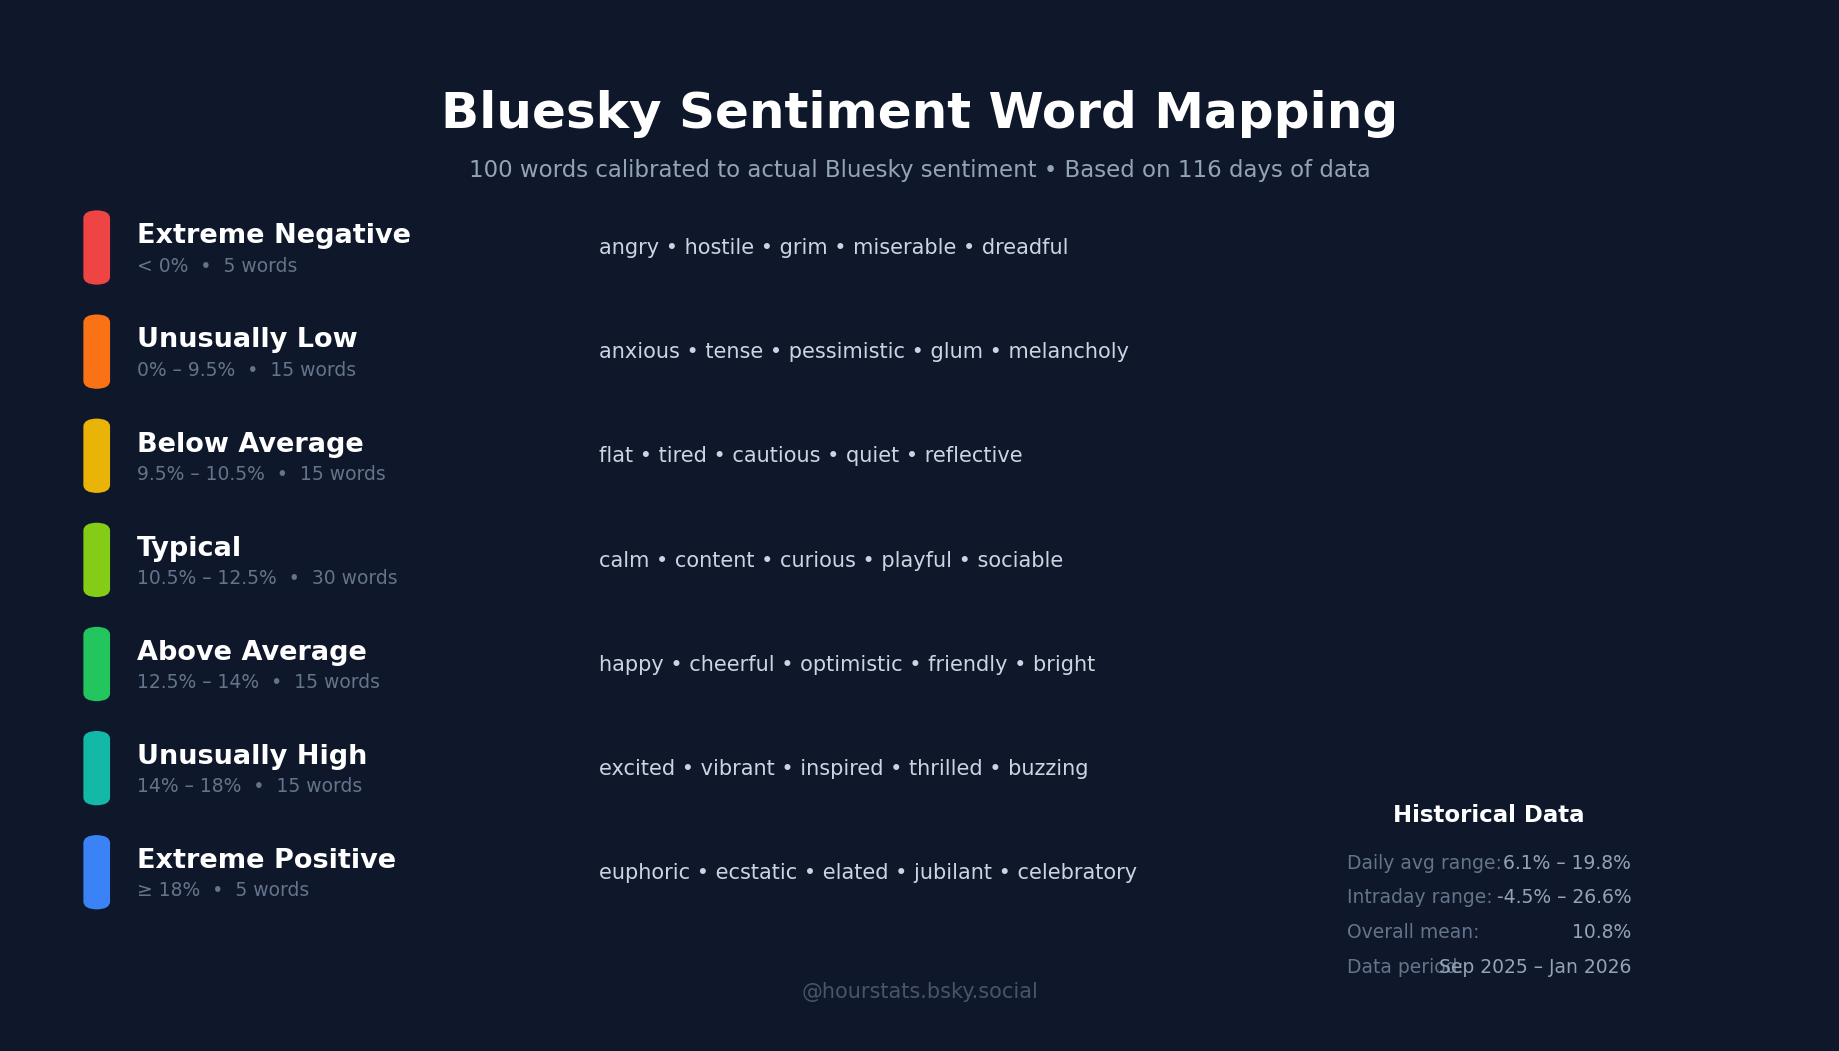
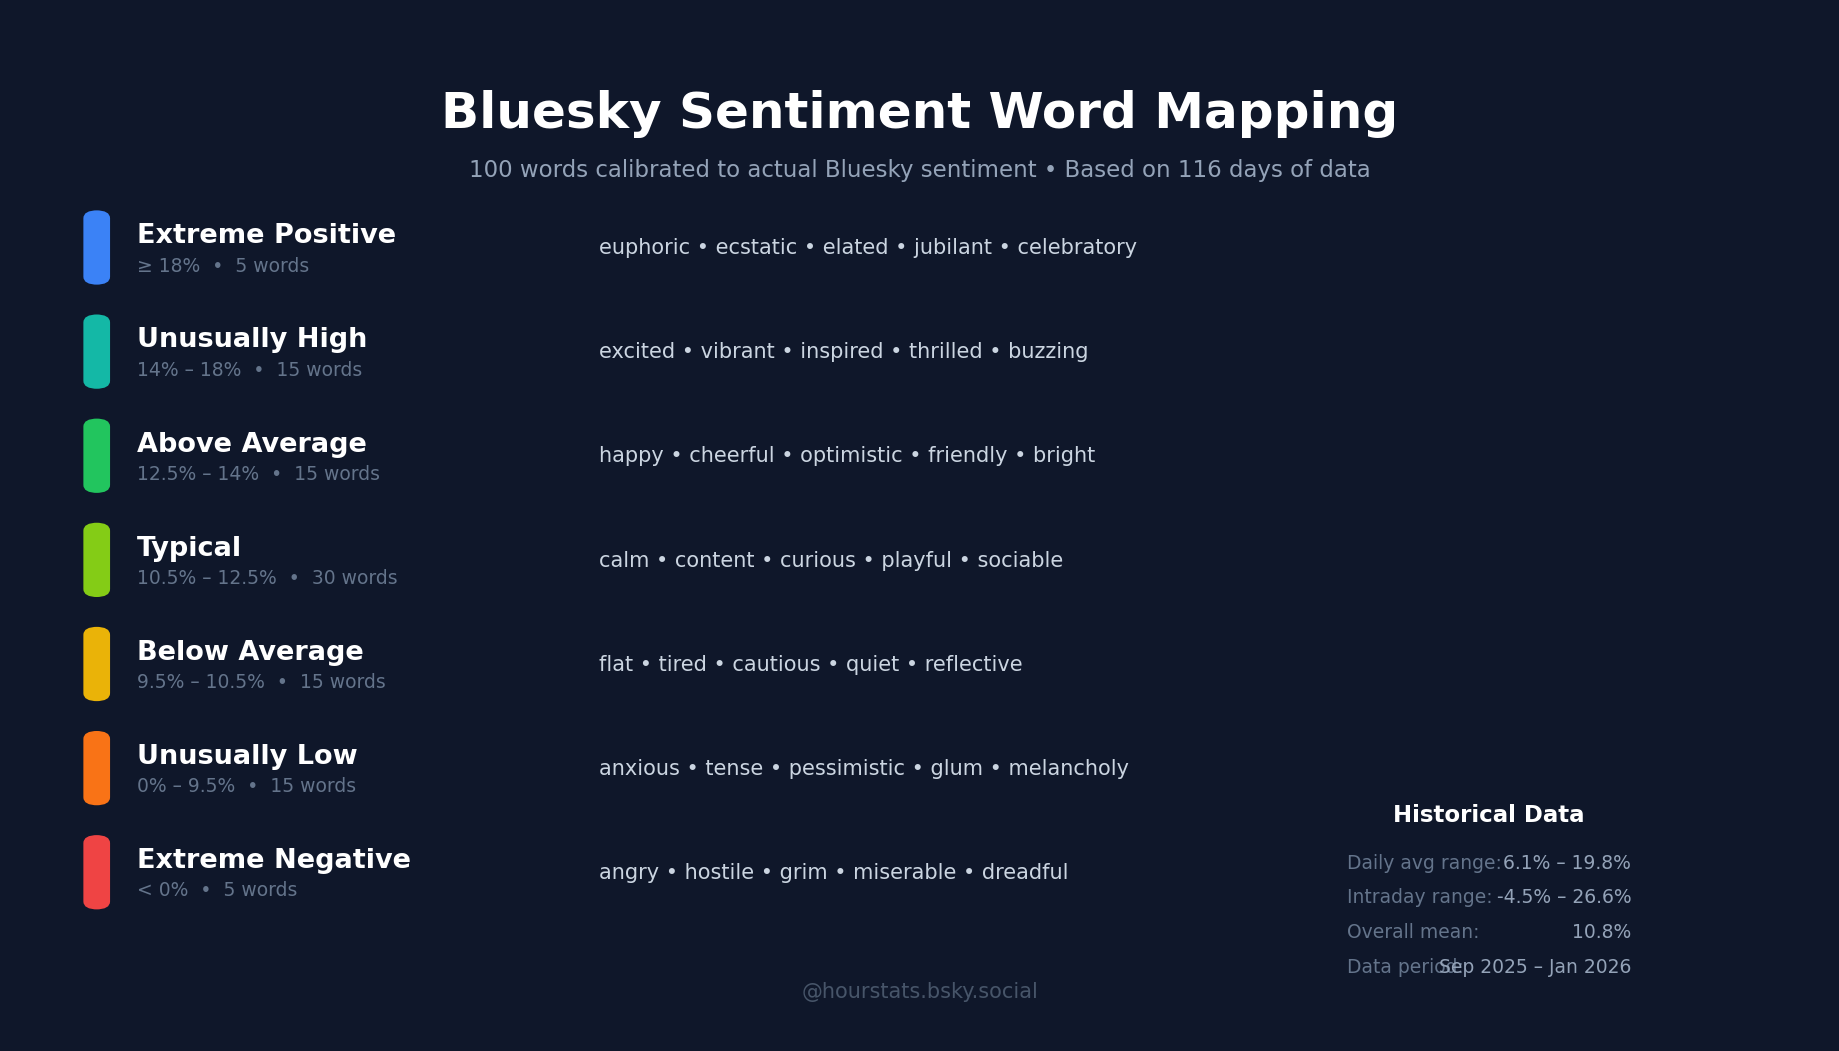
Reorder infographic: positive at top, negative at bottom

diff --git a/scripts/generate_sentiment_infographic_v2.py b/scripts/generate_sentiment_infographic_v2.py
@@ -9,41 +9,14 @@ import matplotlib.patches as mpatches
 import numpy as np
 
 # Tier data with sample words (showing most representative)
+# Ordered from most positive to most negative (top to bottom)
 tiers = [
     {
-        "name": "Extreme Negative",
-        "range": "< 0%",
+        "name": "Extreme Positive",
+        "range": "≥ 18%",
         "count": 5,
-        "sample": "angry • hostile • grim • miserable • dreadful",
-        "color": "#EF4444",
-    },
-    {
-        "name": "Unusually Low",
-        "range": "0% – 9.5%",
-        "count": 15,
-        "sample": "anxious • tense • pessimistic • glum • melancholy",
-        "color": "#F97316",
-    },
-    {
-        "name": "Below Average",
-        "range": "9.5% – 10.5%",
-        "count": 15,
-        "sample": "flat • tired • cautious • quiet • reflective",
-        "color": "#EAB308",
-    },
-    {
-        "name": "Typical",
-        "range": "10.5% – 12.5%",
-        "count": 30,
-        "sample": "calm • content • curious • playful • sociable",
-        "color": "#84CC16",
-    },
-    {
-        "name": "Above Average",
-        "range": "12.5% – 14%",
-        "count": 15,
-        "sample": "happy • cheerful • optimistic • friendly • bright",
-        "color": "#22C55E",
+        "sample": "euphoric • ecstatic • elated • jubilant • celebratory",
+        "color": "#3B82F6",
     },
     {
         "name": "Unusually High",
@@ -53,11 +26,39 @@ tiers = [
         "color": "#14B8A6",
     },
     {
-        "name": "Extreme Positive",
-        "range": "≥ 18%",
+        "name": "Above Average",
+        "range": "12.5% – 14%",
+        "count": 15,
+        "sample": "happy • cheerful • optimistic • friendly • bright",
+        "color": "#22C55E",
+    },
+    {
+        "name": "Typical",
+        "range": "10.5% – 12.5%",
+        "count": 30,
+        "sample": "calm • content • curious • playful • sociable",
+        "color": "#84CC16",
+    },
+    {
+        "name": "Below Average",
+        "range": "9.5% – 10.5%",
+        "count": 15,
+        "sample": "flat • tired • cautious • quiet • reflective",
+        "color": "#EAB308",
+    },
+    {
+        "name": "Unusually Low",
+        "range": "0% – 9.5%",
+        "count": 15,
+        "sample": "anxious • tense • pessimistic • glum • melancholy",
+        "color": "#F97316",
+    },
+    {
+        "name": "Extreme Negative",
+        "range": "< 0%",
         "count": 5,
-        "sample": "euphoric • ecstatic • elated • jubilant • celebratory",
-        "color": "#3B82F6",
+        "sample": "angry • hostile • grim • miserable • dreadful",
+        "color": "#EF4444",
     },
 ]
 
